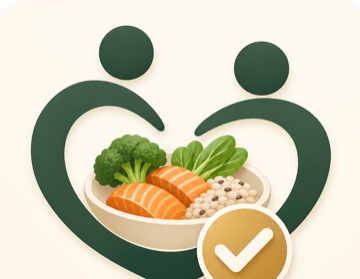
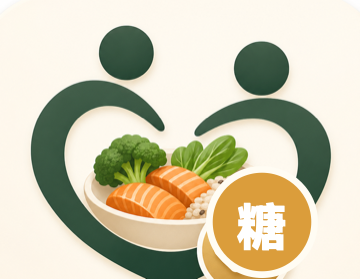
fix: simplify meal result guidance

Changed region(s): [[0.55, 0.6022, 0.8861, 1.0]]

diff --git a/backend/risk-rules.js b/backend/risk-rules.js
@@ -75,9 +75,9 @@ function buildResult({ scanId, vision, modelVersion }) {
     return makeResult({
       scanId,
       state: "red",
-      headline: "先别吃",
+      headline: sweetDrink ? "甜饮别喝" : "甜点别吃",
       advice: sweetDrink ? "去掉甜饮，主食减量。" : "甜点先别吃，主食减量。",
-      voiceText: sweetDrink ? "先别吃，去掉甜饮。" : "先别吃，甜点先别吃。",
+      voiceText: sweetDrink ? "甜饮别喝，主食少一点。" : "甜点别吃，主食少一点。",
       primaryLabel: "改好再拍",
       primaryAction: "camera",
       recognized: items,
@@ -92,13 +92,12 @@ function buildResult({ scanId, vision, modelVersion }) {
     refinedStarch?.category === "congee_noodle" ||
     (refinedStarch?.portion_band === "normal" && (!hasProtein || !hasVeg))
   ) {
-    const headline = refinedStarch?.name?.includes("面") ? "面少一点" : "米饭少半碗";
     return makeResult({
       scanId,
       state: "yellow",
-      headline,
+      headline: "主食少吃",
       advice: "先吃菜肉，再吃主食。",
-      voiceText: `${headline}，先吃菜肉。`,
+      voiceText: "主食少吃，先吃菜肉。",
       primaryLabel: "听怎么做",
       primaryAction: "listen",
       recognized: items,
@@ -112,9 +111,9 @@ function buildResult({ scanId, vision, modelVersion }) {
     return makeResult({
       scanId,
       state: "green",
-      headline: "按平时量",
-      advice: "不要再加甜饮或点心。",
-      voiceText: "按平时量，别加甜饮。",
+      headline: "菜肉先吃",
+      advice: "先吃菜肉，主食别加量。",
+      voiceText: "菜肉先吃，主食按平时量。",
       primaryLabel: "听结果",
       primaryAction: "listen",
       recognized: items,

diff --git a/app.js b/app.js
@@ -240,11 +240,13 @@ function renderFoodGroups(groups, state) {
     document.getElementById("canEatList").textContent = "不能判断";
     document.getElementById("limitEatList").textContent = "不能判断";
     document.getElementById("avoidEatList").textContent = "不能判断";
+    fitFoodGroupLists();
     return;
   }
   document.getElementById("canEatList").textContent = listOrNone(normalized.canEat);
   document.getElementById("limitEatList").textContent = listOrNone(normalized.limit);
   document.getElementById("avoidEatList").textContent = listOrNone(normalized.avoid);
+  fitFoodGroupLists();
 }
 
 function hasFoodGroupItems(groups) {
@@ -255,6 +257,21 @@ function hasFoodGroupItems(groups) {
 
 function listOrNone(names) {
   return names && names.length > 0 ? names.slice(0, 5).join("、") : "没有";
+}
+
+function fitFoodGroupLists() {
+  window.requestAnimationFrame(() => {
+    document.querySelectorAll(".food-group-list").forEach(fitOneLineText);
+  });
+}
+
+function fitOneLineText(element) {
+  element.style.setProperty("--food-list-size", "27px");
+  let size = 27;
+  while (element.scrollWidth > element.clientWidth && size > 13) {
+    size -= 1;
+    element.style.setProperty("--food-list-size", `${size}px`);
+  }
 }
 
 function normalizeFoodGroups(groups, recognized) {
@@ -407,4 +424,5 @@ document.querySelectorAll("[data-go]").forEach((button) => {
   button.addEventListener("click", () => showScreen(button.dataset.go));
 });
 
+window.addEventListener("resize", fitFoodGroupLists);
 renderResult(currentResult);

diff --git a/tests/risk-rules.test.js b/tests/risk-rules.test.js
@@ -40,6 +40,7 @@ test("routes sweet drink to red", () => {
   });
 
   assert.equal(result.state, "red");
+  assert.equal(result.headline, "甜饮别喝");
   assert.equal(result.primary_action, "camera");
   assert.deepEqual(result.food_groups.can_eat, []);
   assert.deepEqual(result.food_groups.limit, ["米饭"]);
@@ -63,14 +64,14 @@ test("routes large rice to yellow", () => {
   });
 
   assert.equal(result.state, "yellow");
-  assert.equal(result.headline, "米饭少半碗");
+  assert.equal(result.headline, "主食少吃");
   assert.equal(result.food_summary, "我看到：米饭、青菜、鸡肉");
   assert.deepEqual(result.food_groups.can_eat, ["青菜", "鸡肉"]);
   assert.deepEqual(result.food_groups.limit, ["米饭"]);
   assert.deepEqual(result.food_groups.avoid, []);
   assert.equal(
     result.voice_text,
-    "看到米饭、青菜、鸡肉。青菜、鸡肉可以吃。米饭少量吃。没有不能吃的。米饭少半碗，先吃菜肉。",
+    "看到米饭、青菜、鸡肉。青菜、鸡肉可以吃。米饭少量吃。没有不能吃的。主食少吃，先吃菜肉。",
   );
 });
 
@@ -90,6 +91,7 @@ test("routes balanced plate to green", () => {
   });
 
   assert.equal(result.state, "green");
+  assert.equal(result.headline, "菜肉先吃");
   assert.equal(result.primary_action, "listen");
   assert.deepEqual(result.food_groups.can_eat, ["青菜", "豆腐"]);
   assert.deepEqual(result.food_groups.limit, ["杂粮饭"]);

diff --git a/index.html b/index.html
@@ -4,14 +4,14 @@
     <meta charset="utf-8" />
     <meta name="viewport" content="width=device-width, initial-scale=1" />
     <title>糖友</title>
-    <link rel="stylesheet" href="./styles.css?v=20260430-result-trim" />
+    <link rel="stylesheet" href="./styles.css?v=20260430-elder-advice" />
   </head>
   <body>
     <main class="app-shell" aria-live="polite">
       <section class="phone" aria-label="糖友小程序原型">
         <header class="topbar">
           <div class="brand-lockup">
-            <img class="brand-logo" src="./assets/tangyou-mark.png" alt="" />
+            <img class="brand-logo" src="./assets/tangyou-mark.png?v=20260430-sugar-badge" alt="" />
             <h1>糖友</h1>
           </div>
         </header>
@@ -68,6 +68,6 @@
       </section>
     </main>
 
-    <script src="./app.js?v=20260430-result-trim"></script>
+    <script src="./app.js?v=20260430-elder-advice"></script>
   </body>
 </html>

diff --git a/styles.css b/styles.css
@@ -335,10 +335,10 @@ h3 {
 
 .food-group {
   display: grid;
-  grid-template-columns: 92px 1fr;
+  grid-template-columns: 66px minmax(0, 1fr);
   align-items: start;
-  gap: 12px;
-  padding: 12px 14px;
+  gap: 6px;
+  padding: 10px 8px;
   border-left: 8px solid var(--line);
   background: rgba(255, 253, 247, 0.72);
 }
@@ -376,11 +376,14 @@ h3 {
 
 .food-group-list {
   color: var(--ink);
-  font-size: 27px;
+  font-size: var(--food-list-size, 27px);
   line-height: 1.25;
   font-weight: 900;
+  min-width: 0;
+  white-space: nowrap;
+  overflow: hidden;
   word-break: keep-all;
-  overflow-wrap: break-word;
+  overflow-wrap: normal;
 }
 
 .result-card.green .result-verdict {
